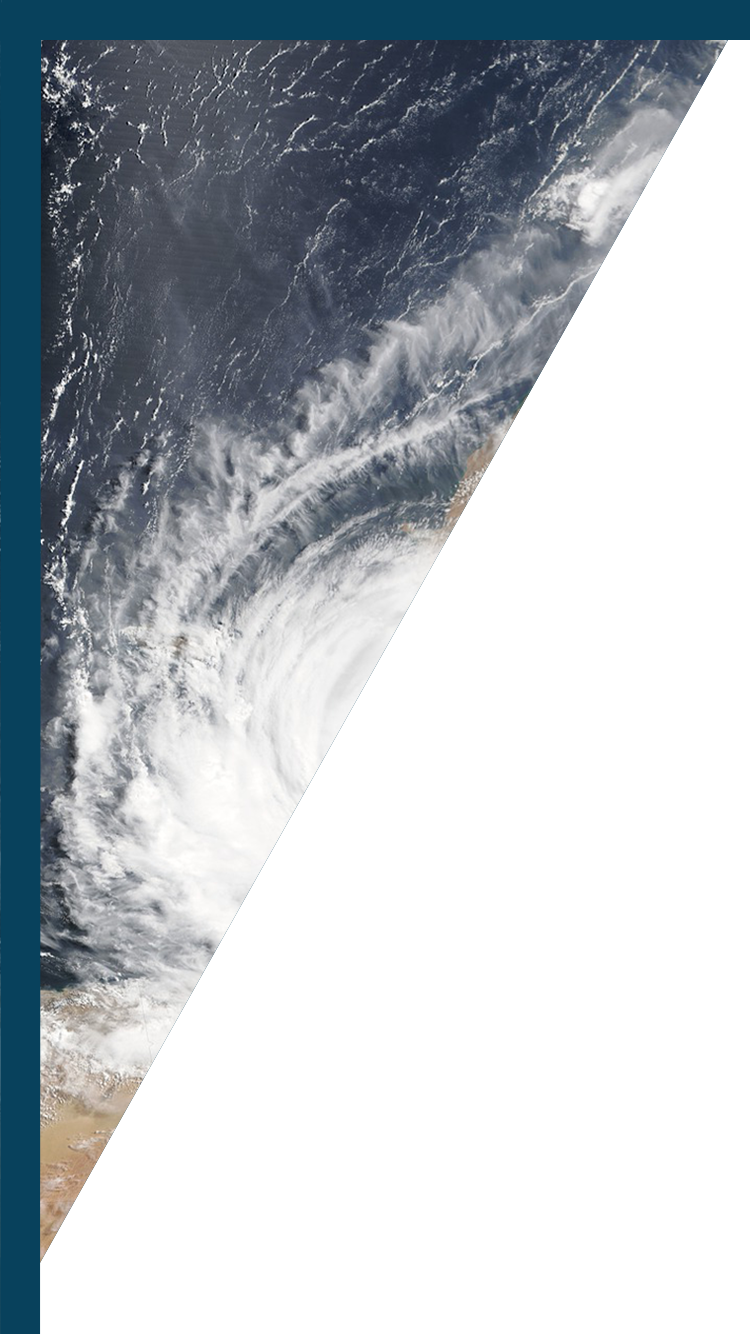
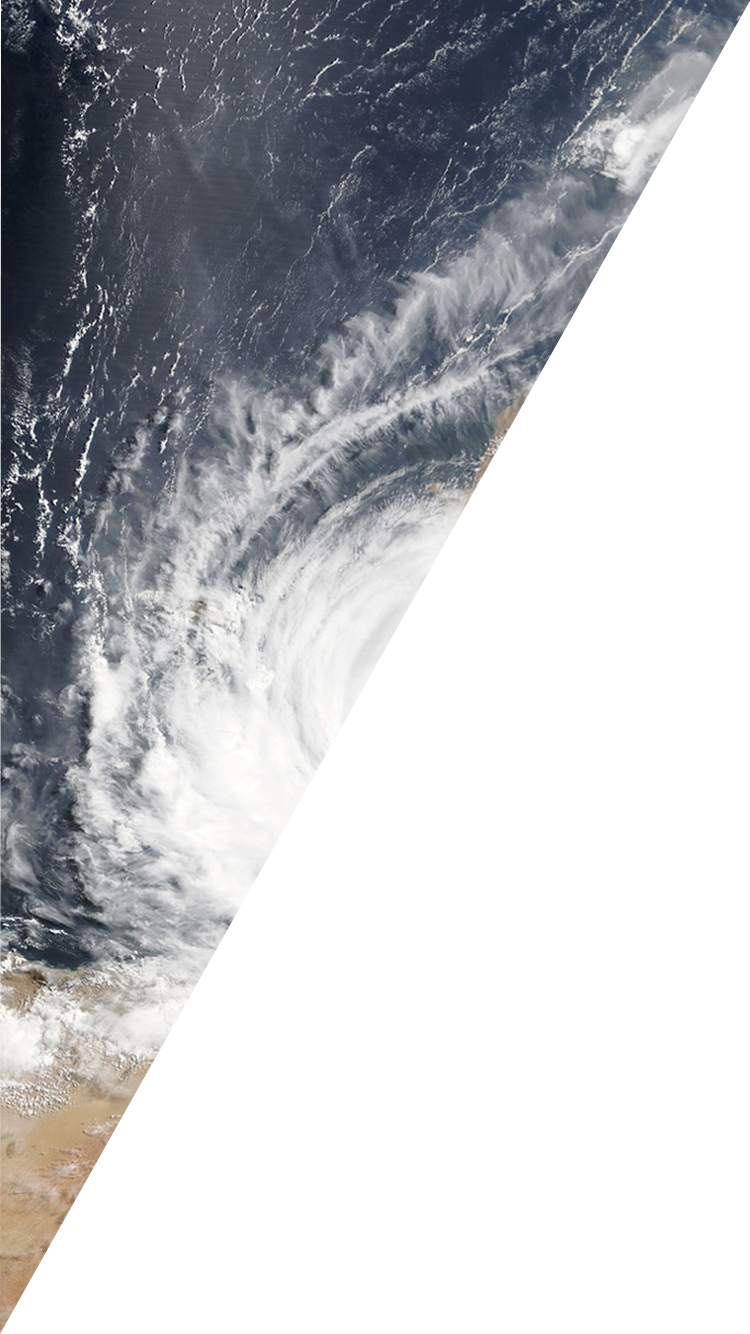
minor css tweaks relating to post-MVP feedback

Changed region(s): [[0.0, 0.0, 1.0, 1.0], [0.368, 0.5225, 0.4293, 0.584], [0.3067, 0.1537, 0.3373, 0.1844]]

diff --git a/style.css b/style.css
@@ -1,21 +1,22 @@
-*, *:before, *:after {
+*{
     box-sizing: border-box;
     margin: 0;
     font-family: 'Raleway', sans-serif;
   }
 
-  h1, h2{
-  color: #08415c;
-  margin: 3%;
+h1, h2{
+color: #08415c;
+margin: 3%;
 }
 
 h3{
   color: #08415c;
 }
+
 .wrapper{
   min-height: 100vh;
-  border-left: solid #08415c 10px;
-  border-top: solid #08415c 10px;
+  border-left: solid #08415c 13px;
+  border-top: solid #08415c 13px;
   border-radius: 10px;
   display: grid;
   grid-template-columns: 1fr;
@@ -32,29 +33,30 @@ h3{
 
 .btnbox{
   display: grid;
-  margin-left: 8%;
-  margin-right: 8%;
+  margin-top: 5%;
   grid-gap: 2vh;
-  margin-top: 3%;
+  align-content: space-evenly;
+  justify-content: center;
+  text-align: center;
 }
 
 /* Front splash page CSS */
 .welcomepg {
   min-height: 100vh;
-  min-width: 100wh;
   border-left: solid #08415c 10px;
   border-top: solid #08415c 10px;
   border-radius: 10px;
   position: relative;
-  background-image: url("/images/storm.jpg");
+  background: url("images/frontpage.png") no-repeat left top;
+  background-size: cover;
 }
 
 .logo{
   position: absolute;
   width: 150px;
   height: 100px;
-  right: 5%;
-  bottom: 20%;
+  right: 7%;
+  bottom: 15%;
 }
 
 .begin{
@@ -67,17 +69,36 @@ h3{
   font-weight: bolder;
 }
 
+/* welcomemsg page CSS */
+.welcomemsg{
+  padding-top: 5%;
+  padding-bottom: 10%;
+}
+
+.welcomebtns{
+    display: flex;
+    justify-content: space-between;
+    align-items: center;
+}
+
 .continue{
-  position: absolute;
-  right: 5%;
-  bottom: 5%;
+  margin: 0;
+  width: 150px;
+  text-align: right;
+}
+
+.demo{
+  margin: 0;
+  width: 150px;
+  text-align: left;
 }
 
 /* logo only header */
 .header{
     padding-top: 5%;
-    padding-bottom: 3%;
+    padding-bottom: 5%;
     border-bottom: #08415c solid 0.3em;
+    margin-bottom: 5%;
 }
 
 /* logo w/nav buttons */
@@ -112,7 +133,7 @@ h3{
 .points{
     display: flex;
     justify-content: space-between;
-    padding: 5% 0 5% 0;
+    padding-bottom: 5%;
 }
 
 .highlowbox{
@@ -121,9 +142,11 @@ h3{
     margin: 3% 8% 3% 8%;
 }
 
+/* The light blue boxes that hold text information */
 .infobox{
     background-color: #bfe3fa;
     font-size: 0.8em;
+    border-radius: 5px;
 }
 
 .txtbox{
@@ -149,10 +172,10 @@ h3{
 /* formating for input fields */
 .input {
   border:#3891a6 solid;
-  border-radius: 15px;
+  border-radius: 5px;
   text-align: center;
   margin-bottom: 1%;
-  width: 80%;
+  width: 230px;
   height: 40px;
 }
 
@@ -166,11 +189,11 @@ button{
   cursor: pointer;
   text-align: center;
   background-color:white;
-  border-radius: 15px;
+  border-radius: 5px;
   font-size: 1.2em;
   font-weight: bolder;
-  border:#3891a6 solid;
-  box-shadow: 2px 3px darkgray;
+  border:#6ec9dd solid;
+  /* box-shadow: 2px 3px darkgray; */
 }
 
 .button {

diff --git a/welcomemsg.html b/welcomemsg.html
@@ -6,7 +6,7 @@
     <meta name="viewport" content="width=device-width, initial-scale=1.0">
     <meta http-equiv="X-UA-Compatible" content="ie=edge">
     <title>Welcome</title>
-    <link rel="stylesheet" href="CSS/style.css">
+    <link rel="stylesheet" href="style.css">
     <script src="https://kit.fontawesome.com/6471a92edb.js"></script>
     <link href="https://fonts.googleapis.com/css?family=Raleway&display=swap" rel="stylesheet">
 </head>
@@ -23,7 +23,7 @@
     <h1>WELCOME</h1><br>
 </aside>
 
-<article class="box">
+<article class="box welcomemsg">
     <p>"Lorem ipsum dolor sit amet, consectetur adipiscing elit, sed do eiusmod tempor incididunt ut labore et dolore magna
     aliqua. Ut enim ad minim veniam, quis nostrud exercitation ullamco laboris nisi ut aliquip ex ea commodo consequat. Duis
     aute irure dolor in reprehenderit in voluptate velit esse cillum dolore eu fugiat nulla pariatur. Excepteur sint
@@ -33,9 +33,17 @@
     aliqua. Ut enim ad minim veniam, quis nostrud exercitation ullamco laboris nisi ut aliquip ex ea commodo consequat.</p>
 </article>
 
-<aside class="box continue">
-    <h3>Continue</h3>
-    <div><i class="fas fa-chevron-circle-right"></i></div>
+<aside class="box welcomebtns">
+<aside class="demo">
+    <a href="index.php">
+        <h1>Demo <i class="fas fa-mobile-alt"></i></h1>
+    </a>
+</aside>
+
+<aside class="continue">
+    <a href="index.php"><h1>Continue <i class="fas fa-chevron-circle-right"></i></h1>
+    </a>
+</aside>
 </aside>
 
 </div>

diff --git a/index.php b/index.php
@@ -65,7 +65,7 @@
     <meta name="viewport" content="width=device-width, initial-scale=1.0">
     <meta http-equiv="X-UA-Compatible" content="ie=edge">
     <title>Front Page</title>
-    <link rel="stylesheet" href="CSS/style.css">
+    <link rel="stylesheet" href="style.css">
     <script src="https://kit.fontawesome.com/6471a92edb.js"></script>
     <link href="https://fonts.googleapis.com/css?family=Raleway&display=swap" rel="stylesheet"> 
 </head>
@@ -86,18 +86,18 @@
 
 <div class="btnbox">
   
-<aside class="box" id="start_journey"><a href="choose_journey.php"><button class="button">Start Guided Tour</button></a>
+<aside id="start_journey"><a href="choose_journey.php"><button class="button">Start Guided Tour</button></a>
 </aside>
 
-    <aside class="box">
-    <a href="content.html"><button class="button">Browse Some Content</button></a>
+    <aside>
+    <a href="game.php"><button class="button">Random Play</button></a>
   </aside>
 
-  <aside class="box">
+  <aside>
     <a href=""><button class="button">Look At A Map</button></a>
   </aside>
 
-  <aside class="box">
+  <aside>
       <a href="scoreboard.php"><button class="button">Leaderboard</button></a>
   </aside>
 
@@ -107,7 +107,7 @@
             <button class="idbutton" type='submit'>Login</button>
         </form>
   </aside>
-    </div>
+  </div>
 
   <footer class="box footer">PLACEHOLDER FOR BREADCRUMB</footer>
 

diff --git a/welcomesplash.php b/welcomesplash.php
@@ -6,23 +6,23 @@
     <meta name="viewport" content="width=device-width, initial-scale=1.0">
     <meta http-equiv="X-UA-Compatible" content="ie=edge">
     <title>Welcome</title>
-    <link rel="stylesheet" href="CSS/style.css">
-    <script src="https://kit.fontawesome.com/6471a92edb.js"></script>
+    <link rel="stylesheet" href="style.css">
+    <script src="https://kit.fontawesome.com/6471a92edb.js" crossorigin="anonymous"></script>
     <link href="https://fonts.googleapis.com/css?family=Raleway&display=swap" rel="stylesheet">
     
 </head>
 
 <body>
     <div class="welcomepg">
-        <!-- <img src="/images/storm.jpg"/> -->
-    
+            
     <aside class="logo">
-        <img src="/images/logo.png" alt="Go Home" class="homelogo" height="100" width="150"/>
+        <img src="images/logo.png" alt="Museum Of Natural Disasters" class="homelogo" height="100" width="150"/>
     </aside>
 
     <aside class="begin">
-        <a href="index.php"><h1>BEGIN JOURNEY <i class="fas fa-chevron-circle-right"></i></h1></a>
+        <a href="welcomemsg.html"><h1>BEGIN JOURNEY <i class="fas fa-chevron-circle-right"></i></h1></a>
     </aside>
+
 </div>
 </body>
 

diff --git a/clue.php b/clue.php
@@ -64,8 +64,8 @@
     <meta name="viewport" content="width=device-width, initial-scale=1.0">
     <meta http-equiv="X-UA-Compatible" content="ie=edge">
     <title>Clue</title>
-    <link rel="stylesheet" href="CSS/style.css">
-    <link rel="stylesheet" href="CSS/leaflet.css">
+    <link rel="stylesheet" href="style.css">
+    <link rel="stylesheet" href="leaflet.css">
     <script src="https://kit.fontawesome.com/6471a92edb.js"></script>
     <link href="https://fonts.googleapis.com/css?family=Raleway&display=swap" rel="stylesheet"> 
 </head>

diff --git a/choose_journey.php b/choose_journey.php
@@ -17,7 +17,7 @@
     <meta name="viewport" content="width=device-width, initial-scale=1.0">
     <meta http-equiv="X-UA-Compatible" content="ie=edge">
     <title>Choose Your Journey</title>
-    <link rel="stylesheet" href="CSS/style.css">
+    <link rel="stylesheet" href="style.css">
     <script src="https://kit.fontawesome.com/6471a92edb.js"></script>
     <link href="https://fonts.googleapis.com/css?family=Raleway&display=swap" rel="stylesheet"> 
 </head>

diff --git a/game.php b/game.php
@@ -151,7 +151,7 @@
     <meta name="viewport" content="width=device-width, initial-scale=1.0">
     <meta http-equiv="X-UA-Compatible" content="ie=edge">
     <title>Higher Or Lower</title>
-    <link rel="stylesheet" href="CSS/style.css">
+    <link rel="stylesheet" href="style.css">
     <script src="https://kit.fontawesome.com/6471a92edb.js"></script>
     <link href="https://fonts.googleapis.com/css?family=Raleway&display=swap" rel="stylesheet"> 
 </head>

diff --git a/scoreboard.php b/scoreboard.php
@@ -15,7 +15,7 @@
     <meta name="viewport" content="width=device-width, initial-scale=1.0">
     <meta http-equiv="X-UA-Compatible" content="ie=edge">
     <title>Scoreboard</title>
-    <link rel="stylesheet" href="css/style.css">
+    <link rel="stylesheet" href="style.css">
     <script src="https://kit.fontawesome.com/6471a92edb.js"></script>
     <link href="https://fonts.googleapis.com/css?family=Raleway&display=swap" rel="stylesheet"> 
 </head>

diff --git a/ending.php b/ending.php
@@ -51,7 +51,7 @@
     <meta name="viewport" content="width=device-width, initial-scale=1.0">
     <meta http-equiv="X-UA-Compatible" content="ie=edge">
     <title>Ending</title>
-    <link rel="stylesheet" href="CSS/style.css">
+    <link rel="stylesheet" href="style.css">
     <script src="https://kit.fontawesome.com/6471a92edb.js"></script>
     <link href="https://fonts.googleapis.com/css?family=Raleway&display=swap" rel="stylesheet"> 
 </head>
